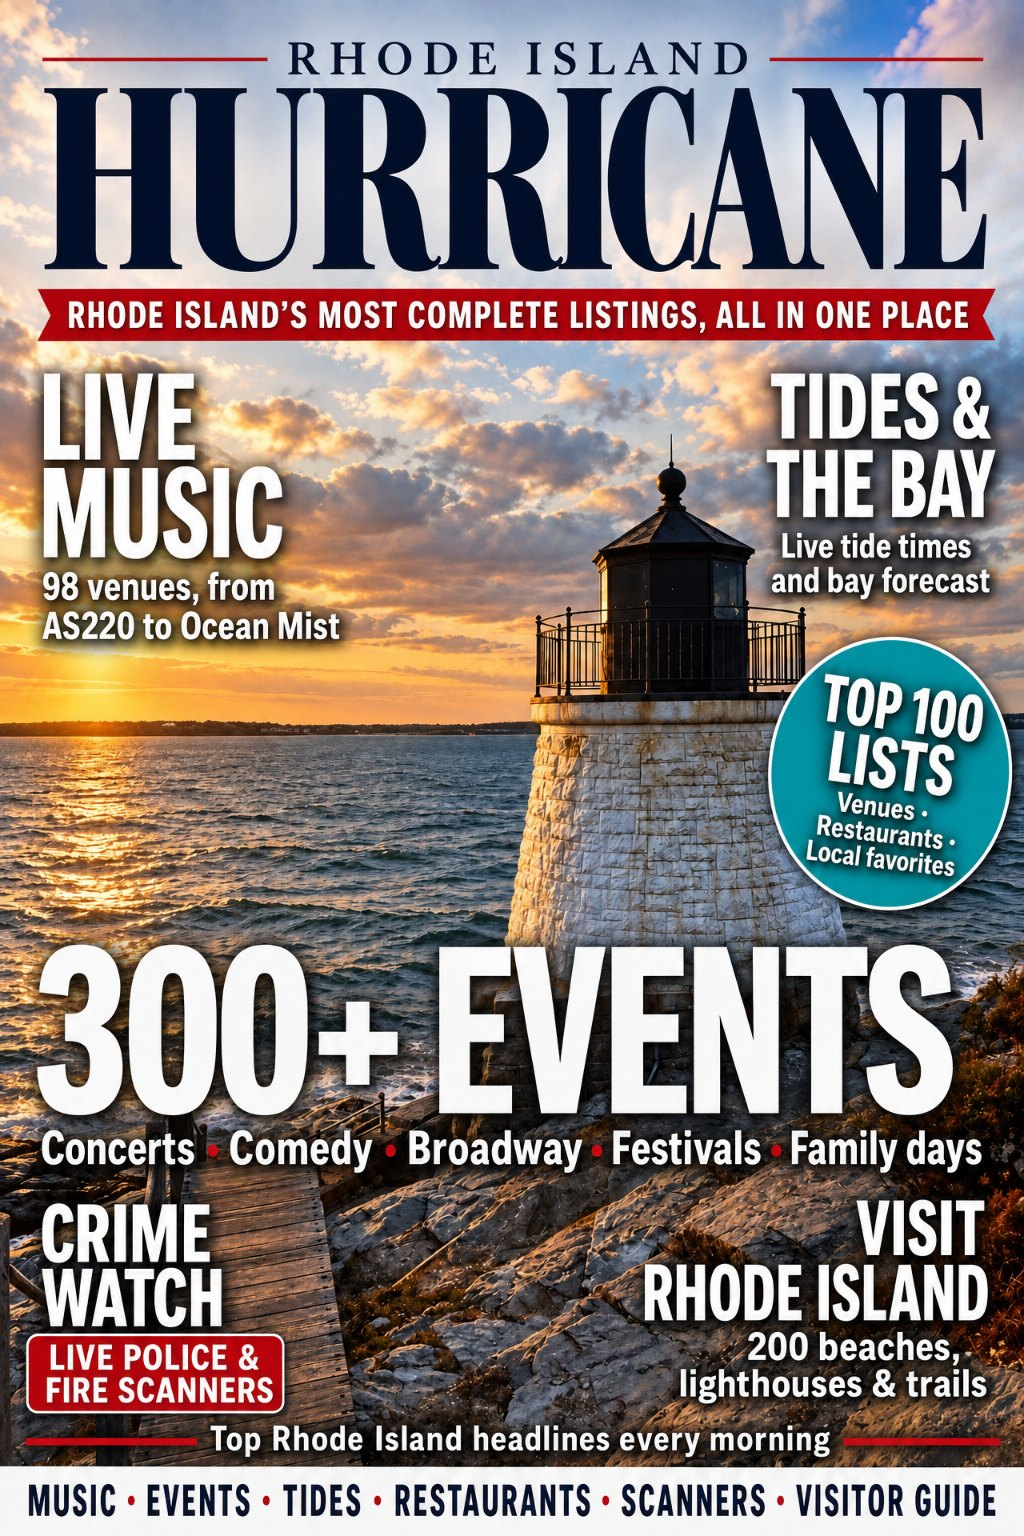
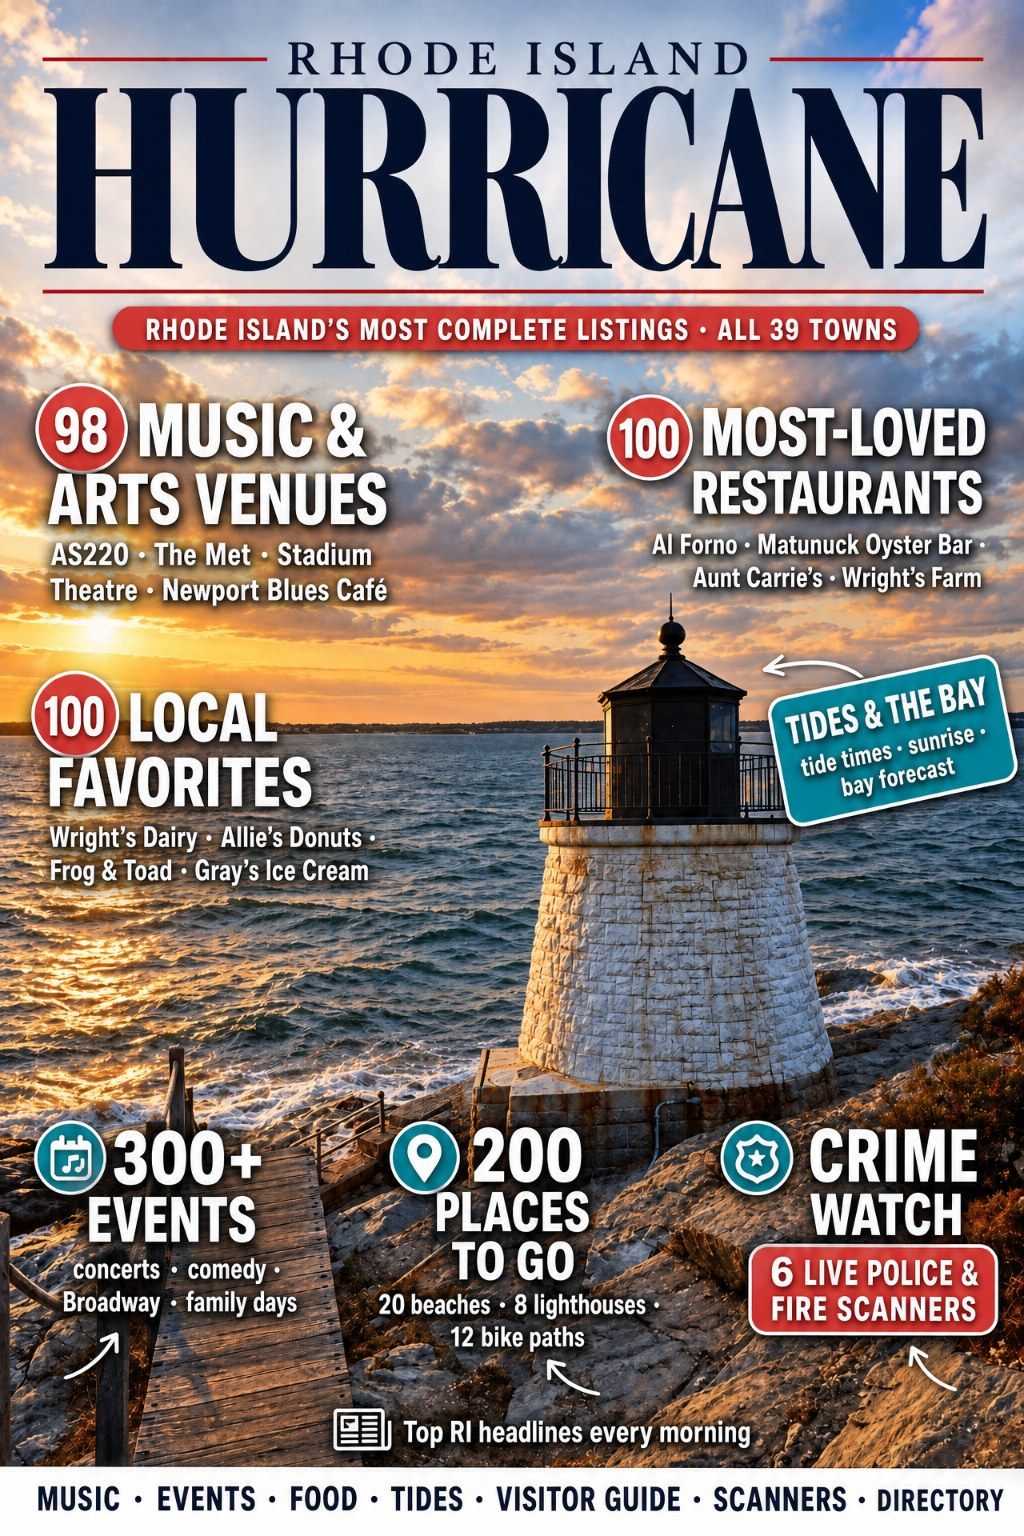
Cover: hip, detailed breakdowns of every listing
Claude-Session: https://claude.ai/code/session_01Rvhfw57S8LJQmjjH2L4ZDg

diff --git a/index.html b/index.html
@@ -1378,7 +1378,7 @@ const CAL=[];
 const SCENE=[];
 const UPDATED="Oct 21, 2026";
 const COVERS=[];
-const ISSUES=[{no:1,month:'current',src:"img/cover-hurricane-live.jpg?v=2",lines:[]}];
+const ISSUES=[{no:1,month:'current',src:"img/cover-hurricane-live.jpg?v=3",lines:[]}];
 const CUR=ISSUES[ISSUES.length-1];try{ISSUES.forEach(I=>{I.lines=I.lines.filter(l=>!window.EXPIRED.has(l[0]))})}catch(_){}
 const VENUES=[];
 const VST=/*VST_START*/{}/*VST_END*/;
